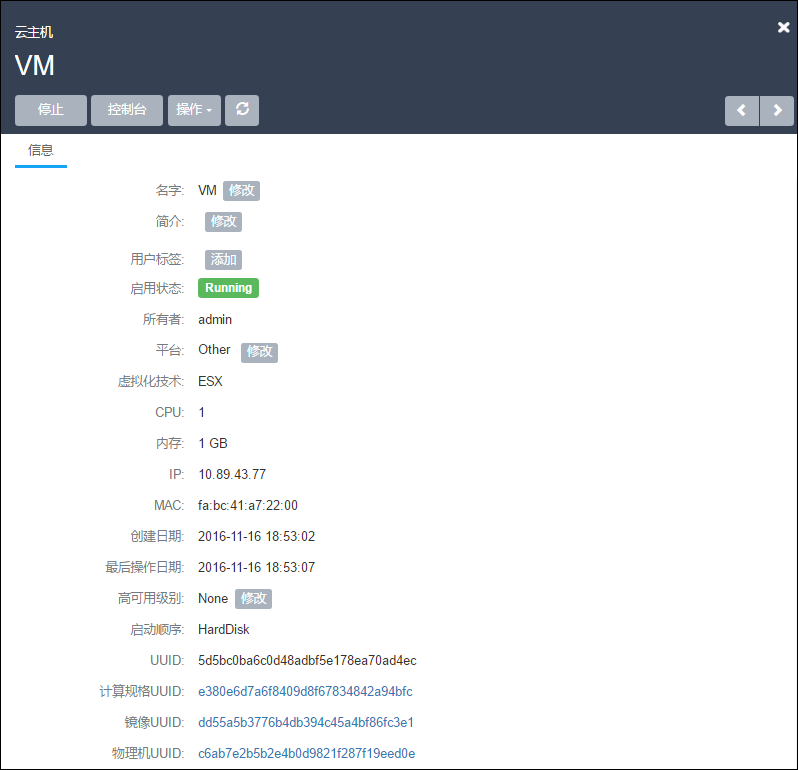
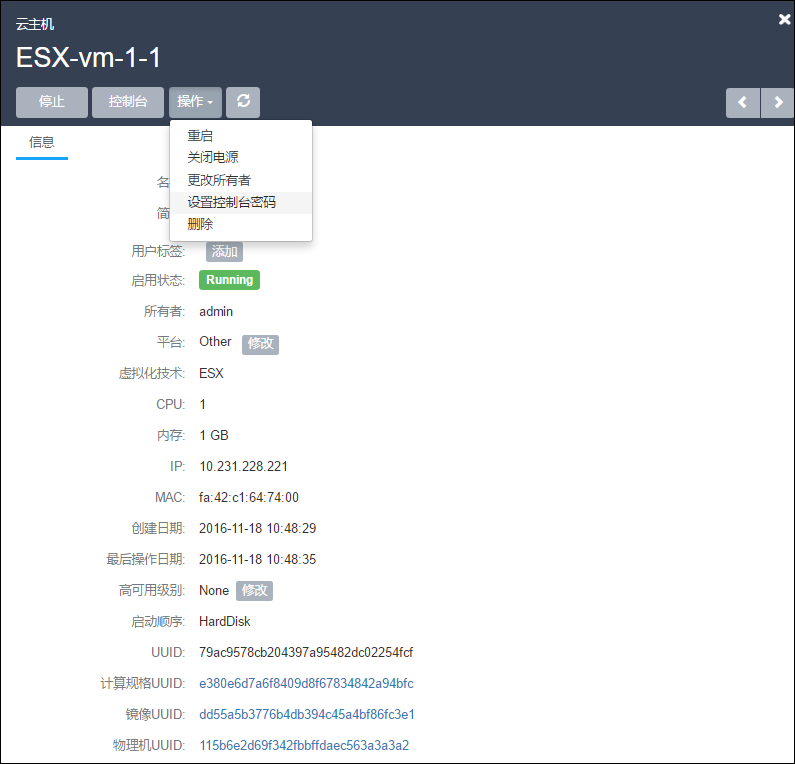
Creates images/10-2-3.png
Auto commit by GitBook Editor

Changed region(s): [[0.0, 0.0301, 1.0, 0.9935], [0.966, 0.0, 0.9962, 0.0602]]

diff --git a/vCenter/ESX-vm.md b/vCenter/ESX-vm.md
@@ -6,17 +6,20 @@
 
 ###### 图10-2-1 云主机界面
 
-点击“新建”按钮，新建云主机
+用户可以点击“新建”按钮，新建所需的ESX(i)云主机。这个操作与[7.1新建云主机](/VM/new-vm.md)一样，需要填写云主机名字、选择镜像、计算规格、网络，并支持批量创建。如图10-2-2所示
+* 注意： 镜像和网络为vCenter中已创建的资源，未来会支持创建云主机的更多高级设置。
 
-ESX(i)云主机
+![png](../images/10-2-2.png "图10-2-2 新建云主机界面")
 
-![png](../images/10-2-2.png "图10-2-2 云主机详细信息界面")
-
-###### 图10-2-2 云主机详细信息界面
+###### 图10-2-2 新建云主机界面
 
 在云主机列表界面,点击相应云主机的行,可以展开云主机的详细信息并对云主机进行相应的操作,如图7-2-1所示。
 
 根据虚拟当前状态的不同,云主机的操作可支持启动、停止、重启、关闭电源、控制台、更改所有者、删除等操作。
+
+![png](../images/10-2-3.png "图10-2-2 新建云主机界面")
+
+###### 图10-2-2 新建云主机界面
 
 对ESX(i)云主机操作的定义与云主机如下：
 
@@ -26,6 +29,8 @@ ESX(i)云主机
 
 3.重启:将处于运行状态的云主机重启,使云主机系统重新启动;
 
-4.关闭电源：当云主机处于运行状态时，使云主机强制进入停止状态。如图10-2-3所示，在云主机详情页面，点击操作列表中的关闭电源。正常状态下不建议执行此操作；
+4.关闭电源：当云主机处于运行状态时，使云主机强制进入停止状态。在云主机详情页面，点击操作列表中的关闭电源。正常状态下不建议执行此操作；
+
+5.打开控制台：将进入云主机系统的控制界面,可以登录控制云主机;
 
 
